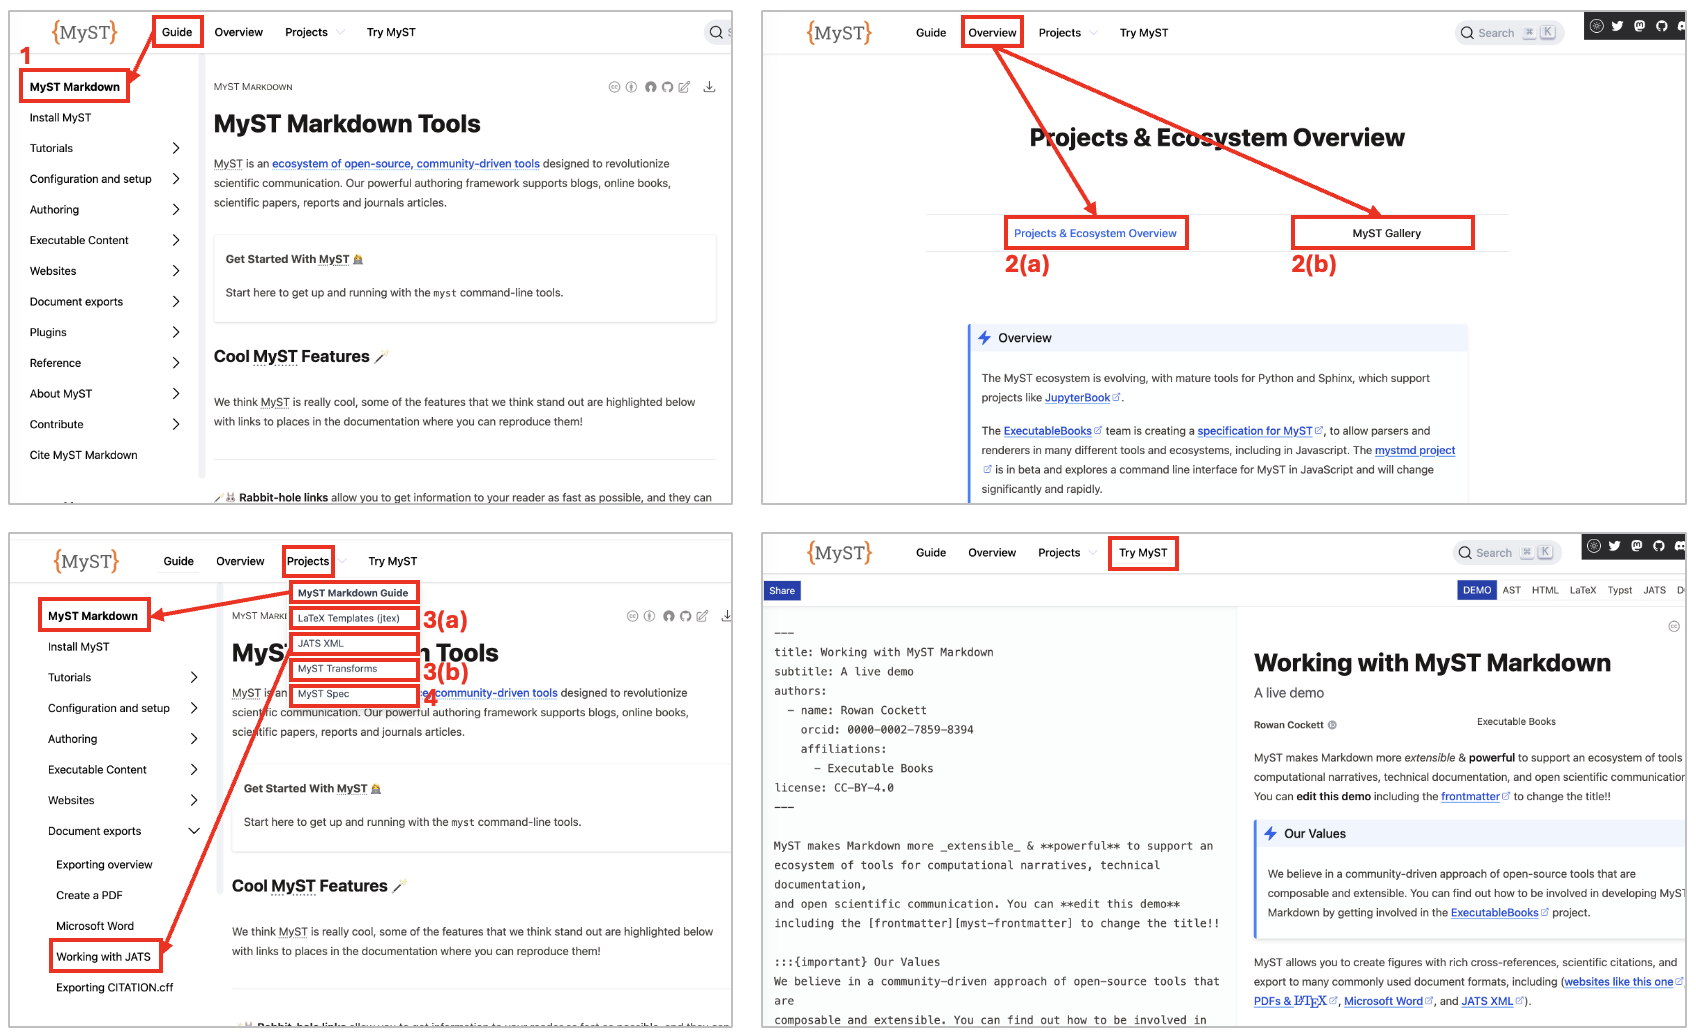
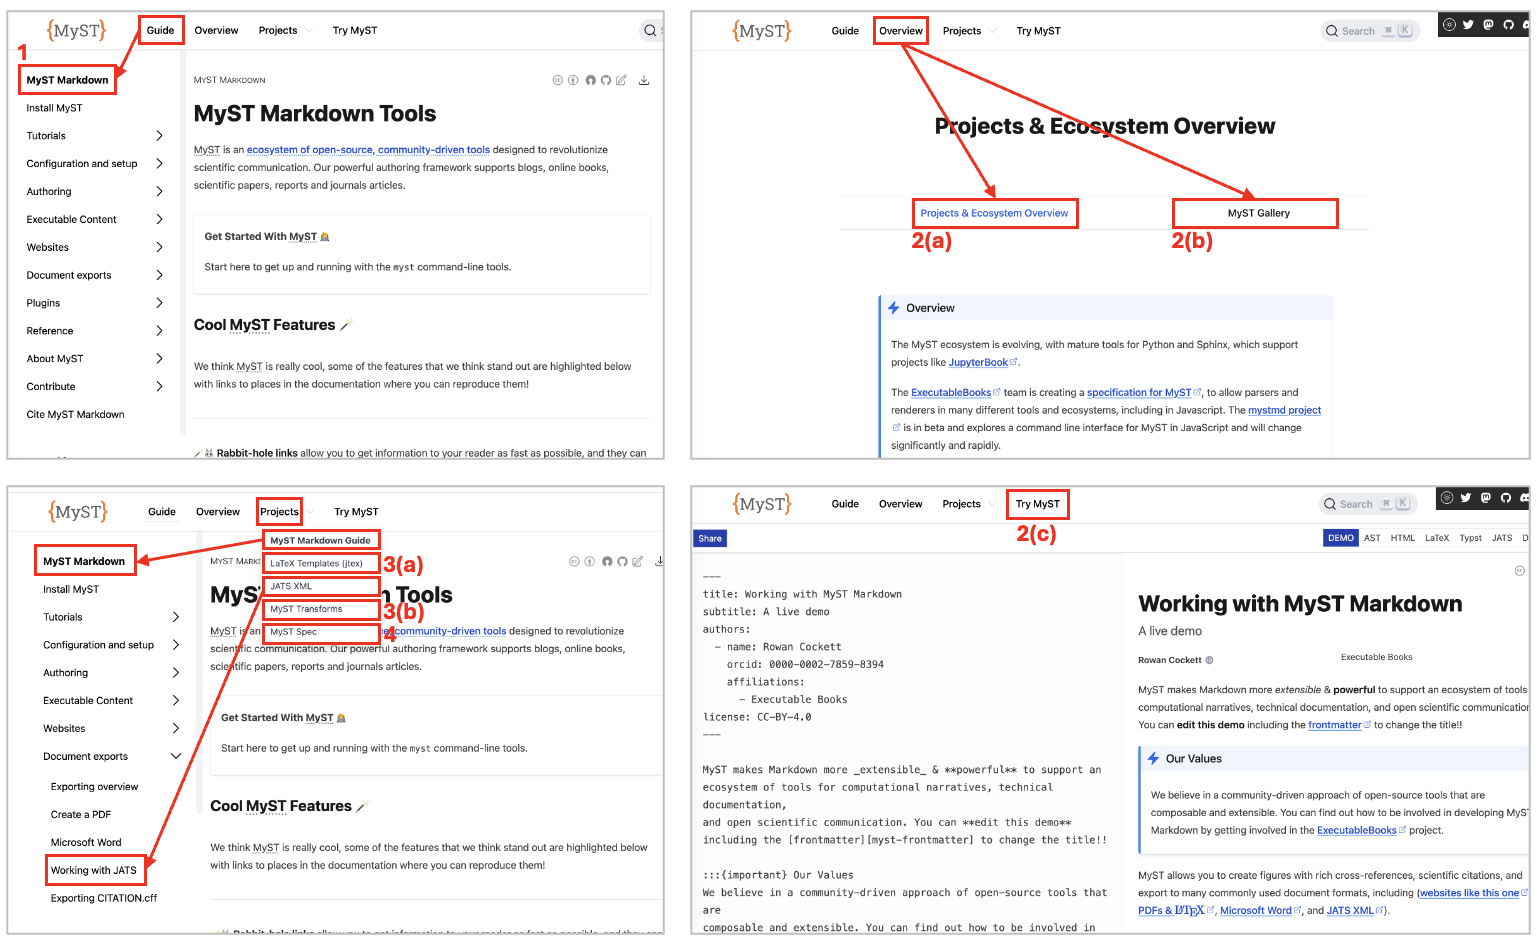
Fix minor things + add link to Try MyST

diff --git a/docs/posts/2026/03-cm-jb-myst-docs.md b/docs/posts/2026/03-cm-jb-myst-docs.md
@@ -1,15 +1,15 @@
 ---
-title: Understanding the documentation of Jupyter Book and MyST
+title: Understanding the documentation of Jupyter Book and MyST  
 authors:
-  - name: Serena Bonaretti
-    github: sbonaretti
-    url: https://sbonaretti.github.io/
-date: 2026-08-31
-license: CC-BY-4.0
+  - name: Serena Bonaretti  
+    github: sbonaretti  
+    url: https://sbonaretti.github.io/   
+date: 2026-08-31  
+license: CC-BY-4.0  
 ---
 
 This month, I share some of the work I have been doing to better understand the  Jupyter Book/MyST documentation, where it is hosted on GitHub, and how it can be accessed through the projects' websites. 
-I also focused on a few other areas of work, including joining the Jupyter Community Building Working Group and starting prepare three events that will take place this fall.
+I also report on a few other areas of work, such as joining the Jupyter Community Building Working Group and starting prepare three events that will take place this fall.
 
 
 ## GitHub repositories and websites hosting Jupyter Book/MyST documentation
@@ -134,7 +134,7 @@ The documentation in [`docs/contribute`](https://github.com/jupyter-book/jupyter
 - [`team-compass`](https://github.com/jupyter-book/team-compass) contains [The Jupyter Book Team Compass](https://jupyterbook.org/compass/) and can be accessed from *Team compass and governance* in the main page of the [Contributing Guide](https://jupyterbook.org/contribute/)
 - [`blog/docs`](https://github.com/jupyter-book/blog/tree/main/docs) contains the content of the [Jupyter Book Blog](https://jupyterbook.org/blog), which can be accessed by clicking *Blog* in the navigation bar.
 
-To learn more about how content from different repositories comes together on a single website, have a look at Chris Holdgraf's blog post [How we combine multiple repositories into one website at jupyterbook.org](./multi-repo.md)
+To learn more about **how content from different repositories comes together on a single website**, have a look at [Chris Holdgraf](https://chrisholdgraf.com/)'s blog post [How we combine multiple repositories into one website at jupyterbook.org](./multi-repo.md)
 
 
 ### Repositories and content for [mystmd.org](https://mystmd.org/)
@@ -171,7 +171,7 @@ flowchart TD;
 
     %% repos
     myst_main_repo("📁 1. mystmd/docs")
-    myst_org_repo("📁 2. mystmd.org/content")
+    myst_org_repo("📁 2. mystmd.org")
     myst_tran_repo("📁 3. mystmd/packages/<br>3(a). jtex/docs<br>3(b). myst-transforms/docs")
     myst_specs_repo("📁 4. myst-spec/docs")
     
@@ -180,7 +180,7 @@ flowchart TD;
 
     %% sections
     myst_main("📄 1. MyST Markdown")
-    myst_org("📄 2(a). Projects & Ecosystem Overview<br>2(b). MyST Gallery")
+    myst_org("📄 2(a). Projects & Ecosystem Overview<br>2(b). MyST Gallery<br>2(c). Try MyST")
     myst_jtex("📄 3(a). JTeX")
     myst_tran("📄 3(b). MyST Transforms")
     myst_specs("📄 4. MyST Specification")
@@ -237,11 +237,11 @@ The numbers correspond to the GitHub repositories in the diagram above.*
 GitHub repositories, website sections, and their access points in the navigation bar are related as follows:
 
 - [`mystmd/docs`](https://github.com/jupyter-book/mystmd/tree/main/docs) contains the documentation that is rendered in [MyST Markdown](https://mystmd.org/guide), which can be accessed on the website by clicking *Guide* in the navigation bar. 
-- [`mystmd.org`](https://github.com/jupyter-book/mystmd.org) contains the website's landing page, as well as and the pages *Projects & Ecosystem Overview*, and *MyST Gallery*.
+- [`mystmd.org`](https://github.com/jupyter-book/mystmd.org) contains the website's landing page, as well as and the pages [Projects & Ecosystem Overview](https://mystmd.org/overview/ecosystem) and [MyST Gallery](https://mystmd.org/overview/gallery), which can be accessed by clicking *Overview* in the navigation bar. It also contains the [Try MyST](https://mystmd.org/sandbox) tool.
 - Within [`mystmd/packages`](https://github.com/jupyter-book/mystmd/tree/main/packages/),
 [`jtex/doc`](https://github.com/jupyter-book/mystmd/tree/main/packages/jtex/docs) contains the [JTEX](https://mystmd.org/jtex) documentation,
 while [`myst-transforms`](https://github.com/jupyter-book/mystmd/tree/main/packages/myst-transforms) contains the [MyST Transforms](https://mystmd.org/myst-transforms) documentation. 
-Bot can be accessed from the *Project* drop-down menu in the navigation bar.
+Both can be accessed from the *Project* drop-down menu in the navigation bar.
 - [`myst-spec/docs`](https://github.com/jupyter-book/myst-spec) contains the documentation that is rendered in [MyST Specification](https://mystmd.org/spec)
 
 
